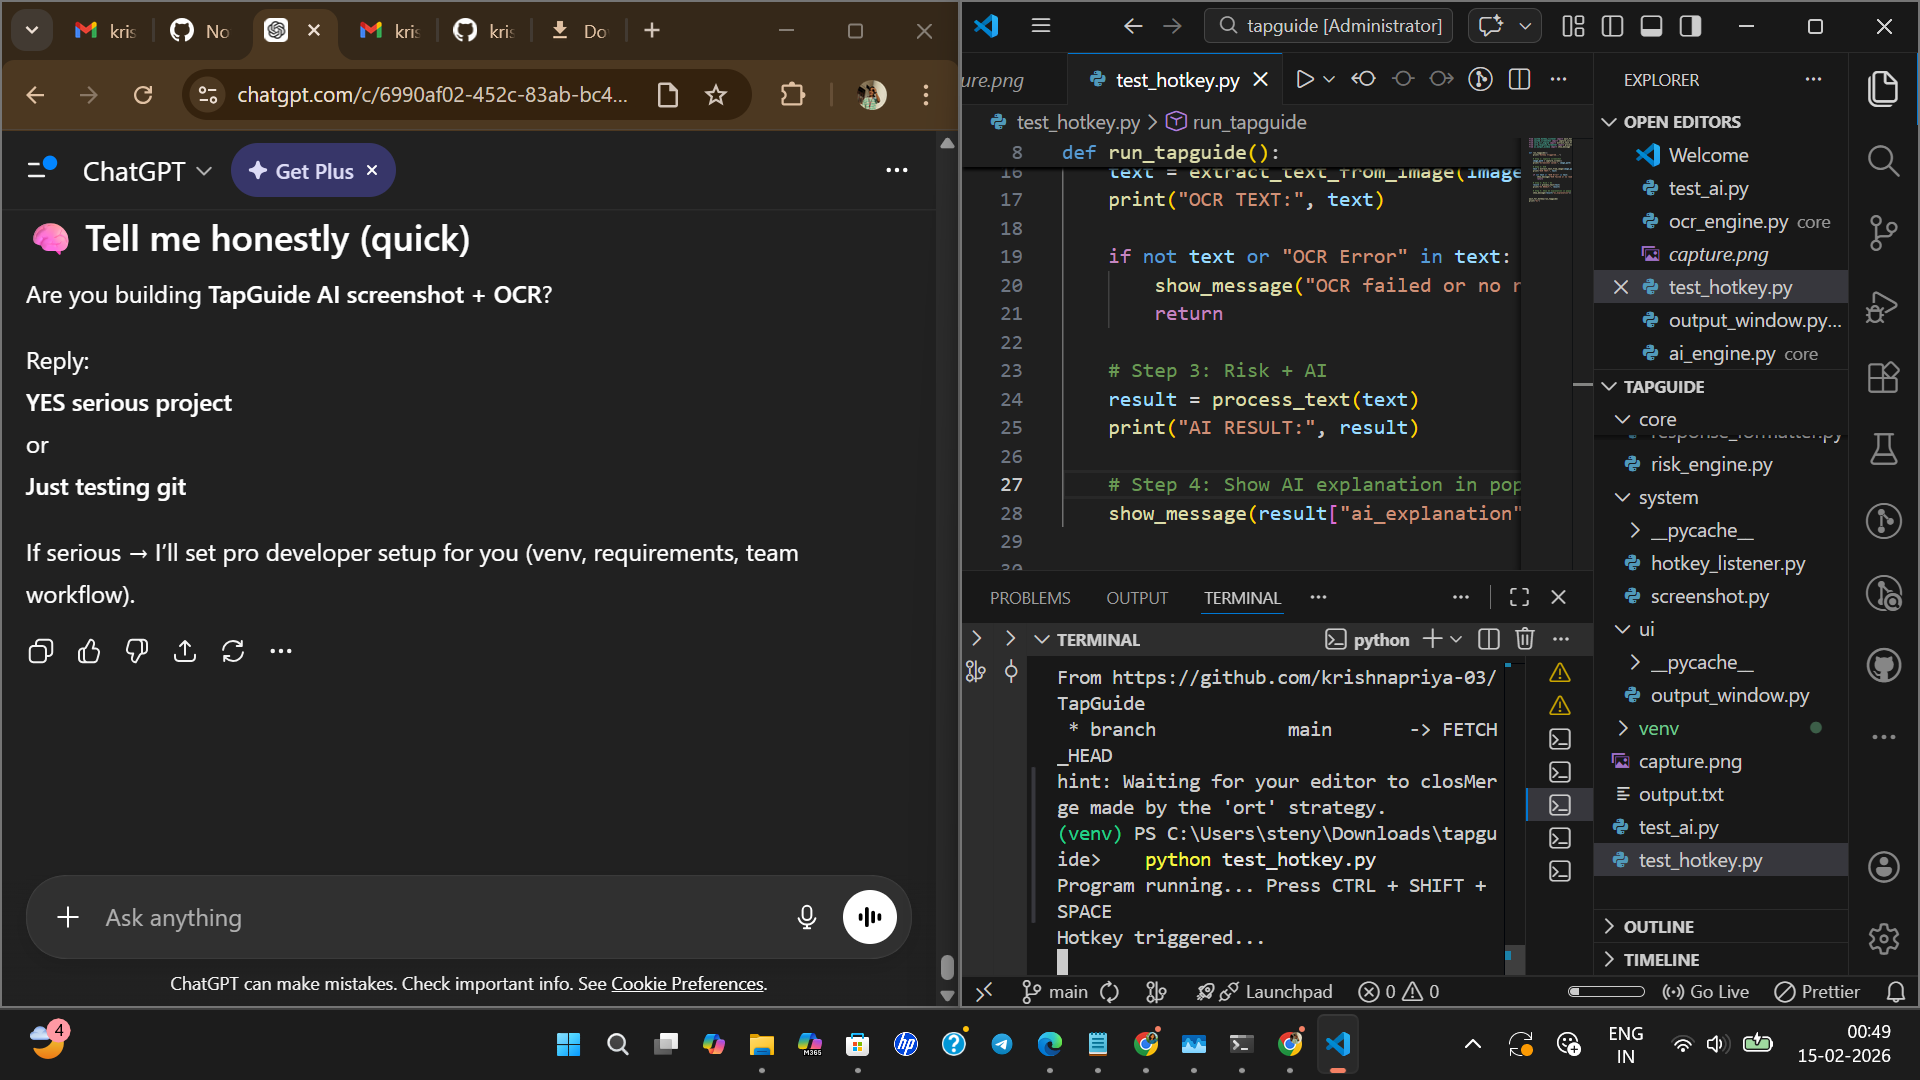
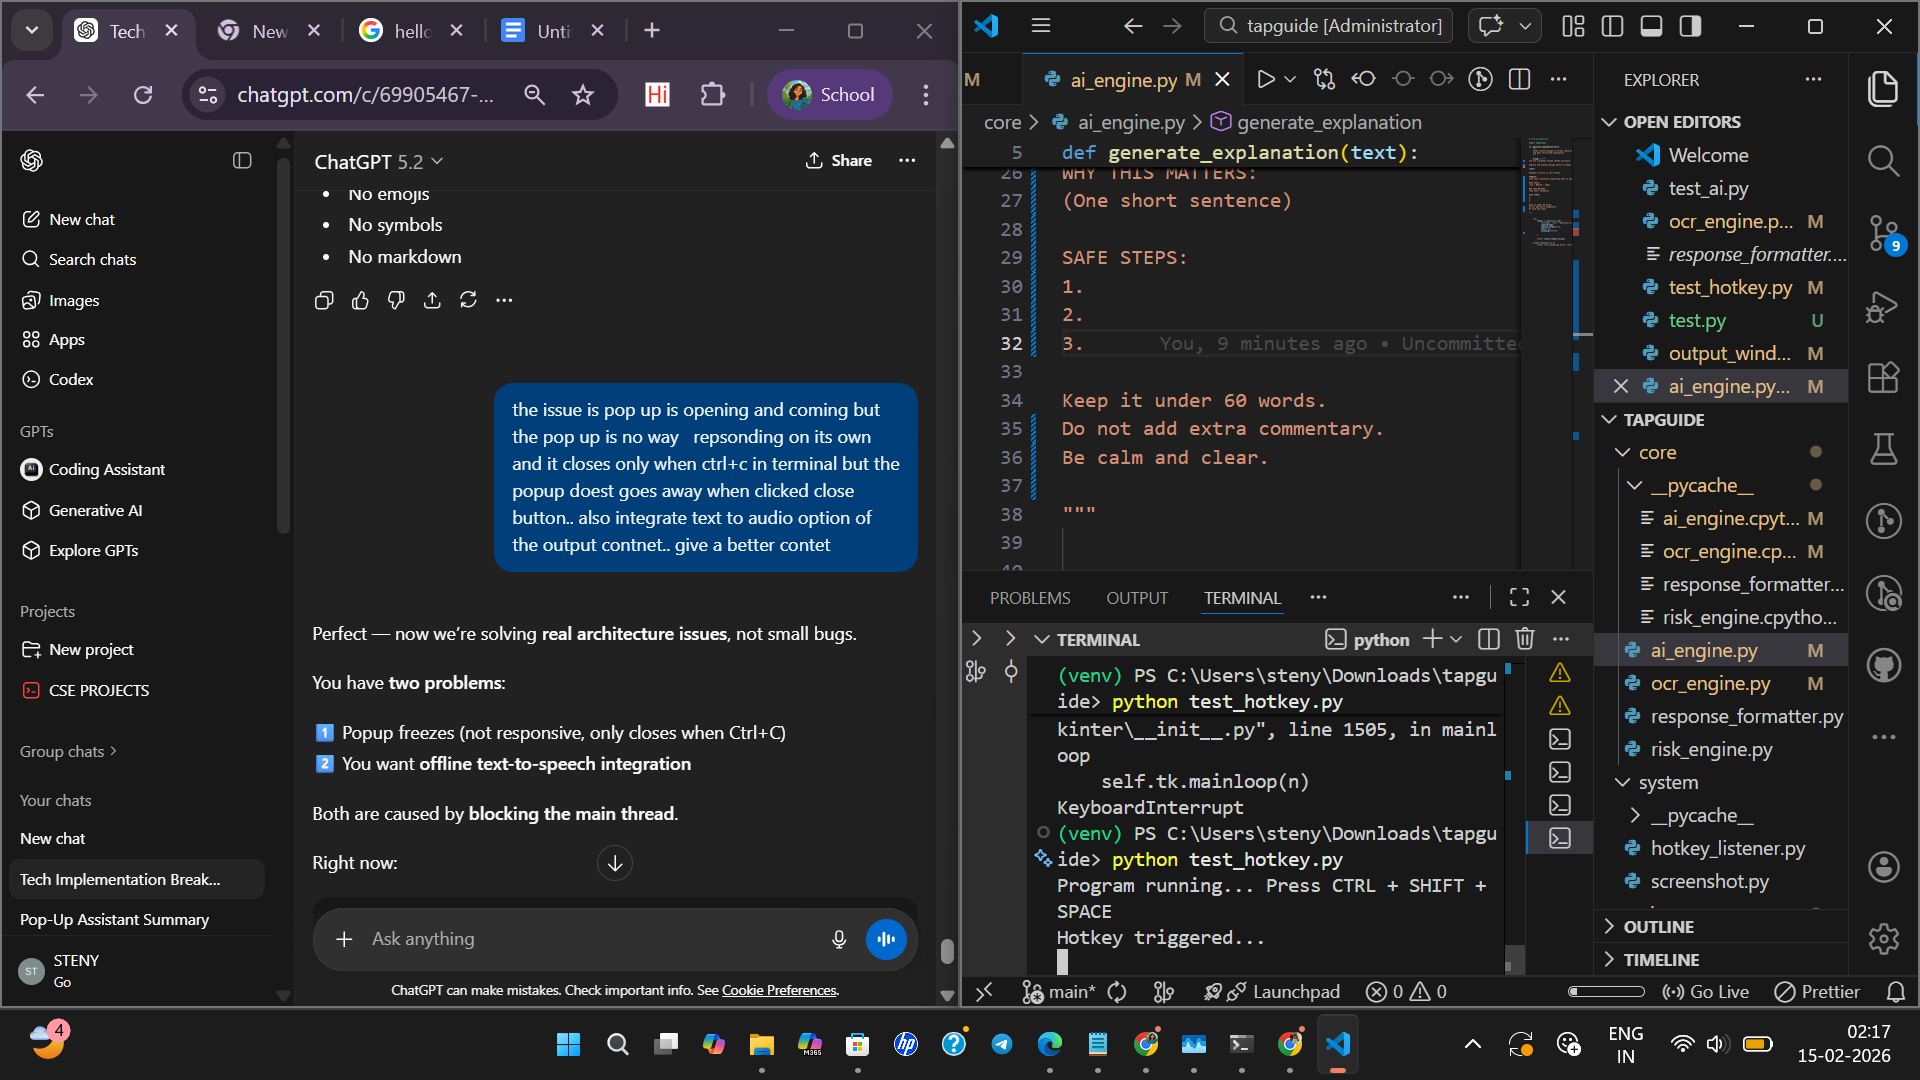
2.20pm commit

diff --git a/ui/output_window.py b/ui/output_window.py
@@ -1,4 +1,5 @@
 import tkinter as tk
+from tkinter import scrolledtext
 
 def show_message(text):
     window = tk.Tk()
@@ -6,16 +7,34 @@ def show_message(text):
     window.geometry("600x500")  # Bigger window for AI content
     window.configure(bg="#1e1e1e")
 
-    label = tk.Label(
+    # Make the window topmost and lift it to the front
+    window.attributes('-topmost', True)
+    window.lift()
+
+    # Create a ScrolledText widget
+    text_widget = scrolledtext.ScrolledText(
         window,
-        text=text,
-        wraplength=550,
-        justify="left",
+        wrap="word",  # Wrap lines at word boundaries
         font=("Segoe UI", 11),
         fg="#00ffcc",
-        bg="#1e1e1e"
+        bg="#1e1e1e",
+        insertbackground="#00ffcc", # Cursor color
+        borderwidth=0,
+        highlightthickness=0, # Remove border
+        state="normal" # Start in normal state to insert text
     )
 
-    label.pack(padx=20, pady=20)
+    text_widget.insert(tk.END, text)
+    text_widget.configure(state="disabled") # Set to disabled (read-only) after inserting text
 
-    window.mainloop()
+    text_widget.pack(padx=20, pady=20, fill=tk.BOTH, expand=True)
+
+    # Process events to show the window and then destroy it after a delay
+    window.update_idletasks()
+    window.update()
+    window.after(10000, window.destroy) # Destroy after 10 seconds
+
+    # If you want it to stay until closed manually by user, remove the window.after line
+    # and you would need a more sophisticated event handling mechanism
+    # like running the hotkey listener in a separate thread and managing the Tkinter loop carefully.
+    # For now, this makes it pop up and then disappear.

diff --git a/core/ai_engine.py b/core/ai_engine.py
@@ -9,34 +9,32 @@ def generate_explanation(text):
     """
 
     prompt = f"""
-You are a system safety assistant.
+You are a Windows system safety assistant.
 
-Explain the following system message clearly to a non-technical user.
+Explain the system message below in simple language for a non-technical or elderly user.
 
-Message:
 {text}
 
 Respond strictly in this format:
 
-What This Means:
-<2-3 sentence explanation>
+SUMMARY:
+(1–2 short sentences explaining what it means)
 
-Risk Level:
-<Low / Medium / High>
+RISK LEVEL:
+(Low / Medium / High)
 
-Possible Impact:
-- Bullet point 1
-- Bullet point 2
-- Bullet point 3
+WHY THIS MATTERS:
+(One short sentence)
 
-How To Proceed Safely:
-1. Step one
-2. Step two
-3. Step three
+SAFE STEPS:
+1.
+2.
+3.
 
 Keep it under 60 words.
-Be practical and realistic.
-Do not be overly technical.
+Do not add extra commentary.
+Be calm and clear.
+
 """
 
 
@@ -47,7 +45,7 @@ Do not be overly technical.
             capture_output=True,
             text=True,
             encoding="utf-8",
-            timeout=125
+            
         )
 
         return result.stdout.strip()

diff --git a/test.py b/test.py
@@ -1,0 +1,17 @@
+import pytesseract
+from PIL import Image
+import os
+
+# path to tesseract installed in windows
+pytesseract.pytesseract.tesseract_cmd = r"C:\Program Files\Tesseract-OCR\tesseract.exe"
+
+# pick any random image from folder
+image_path = "capture.png"   # change name if needed
+
+if os.path.exists(image_path):
+    img = Image.open(image_path)
+    text = pytesseract.image_to_string(img)
+    print("\nExtracted Text:\n")
+    print(text)
+else:
+    print("Image not found in folder")

diff --git a/core/ocr_engine.py b/core/ocr_engine.py
@@ -1,7 +1,9 @@
 import pytesseract
 from PIL import Image
+import os
 import re
-pytesseract.pytesseract.tesseract_cmd = r"C:\Users\steny\Downloads\tesseract-ocr-w64-setup-5.5.0.20241111.exe"
+# path to tesseract installed in windows
+pytesseract.pytesseract.tesseract_cmd = r"C:\Program Files\Tesseract-OCR\tesseract.exe"
 def extract_text_from_image(image_path):
     # Open the image file
     image = Image.open(image_path)

diff --git a/test_hotkey.py b/test_hotkey.py
@@ -25,8 +25,9 @@ def run_tapguide():
     print("AI RESULT:", result)
 
     # Step 4: Show AI explanation in popup
-    show_message(result["ai_explanation"])
+    ai_explanation_content = result["ai_explanation"]
+    print("AI EXPLANATION FOR POPUP:", ai_explanation_content)
+    show_message(ai_explanation_content)
 
 
 wait_for_hotkey(run_tapguide)
-print("hi")
